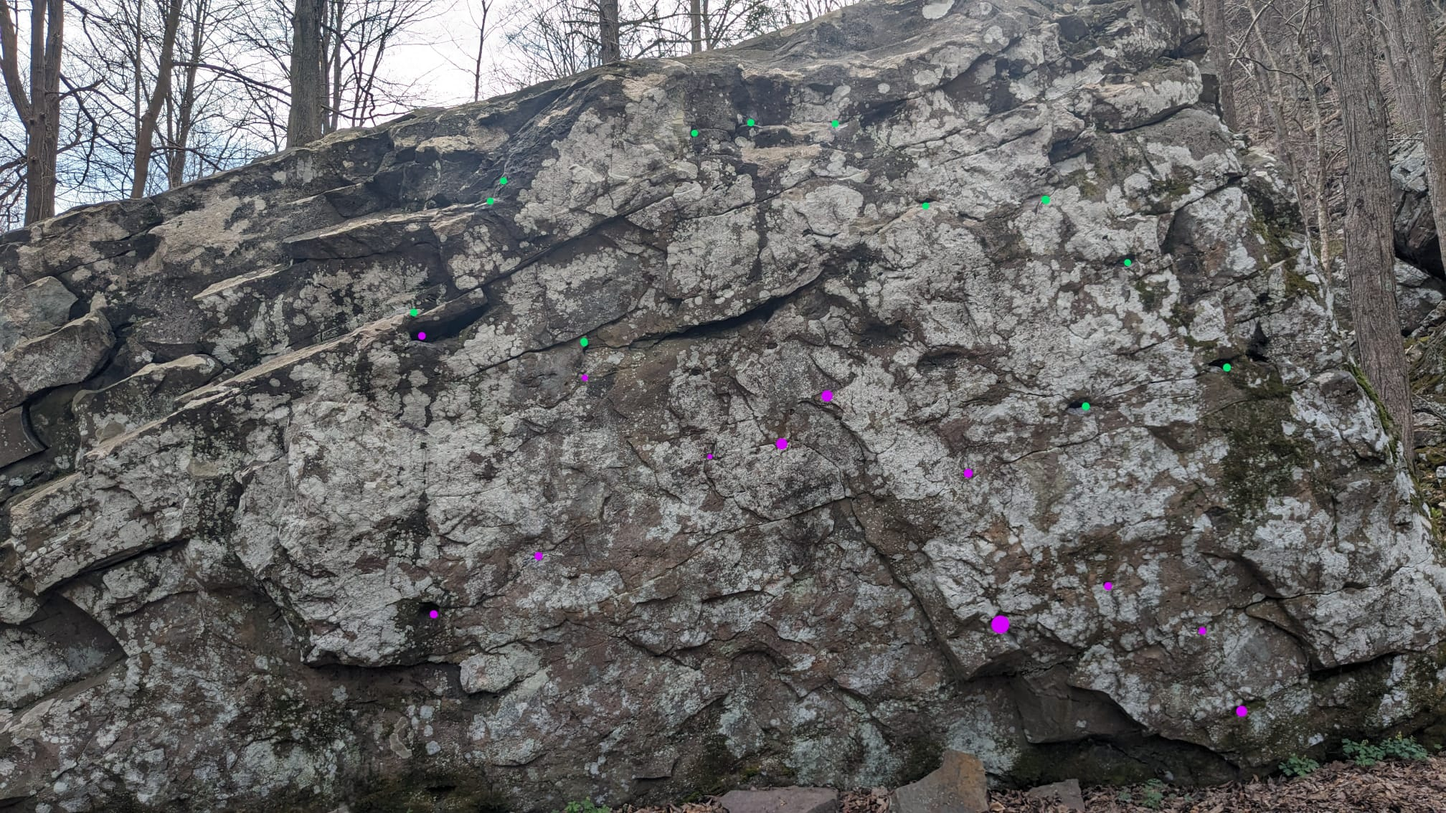
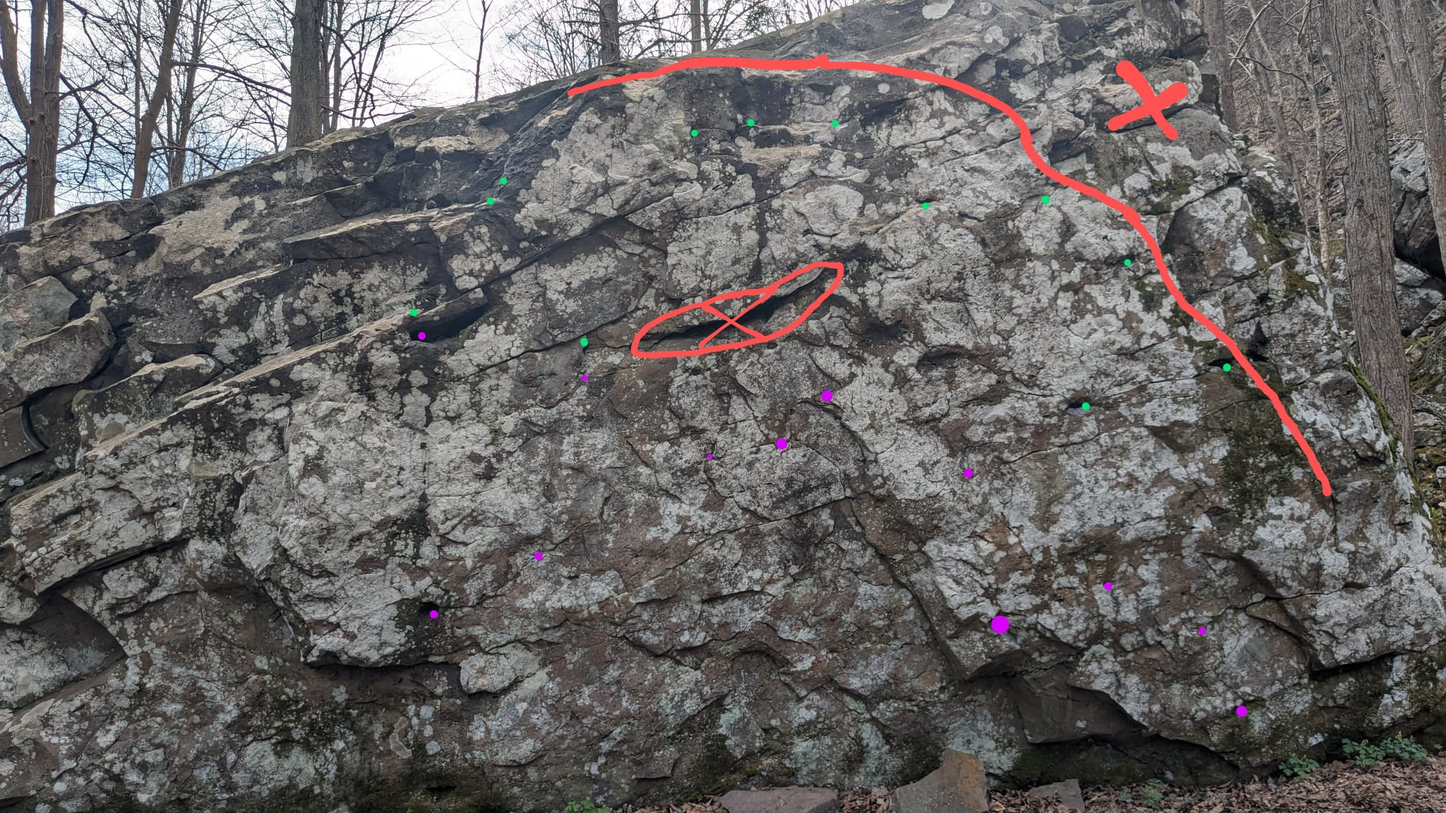
vault backup: 2024-04-02 10:42:46

diff --git a/content/en/v3/Katie.md b/content/en/v3/Katie.md
@@ -3,21 +3,22 @@ date = 2022-03-11T05:00:00Z
 description = "Jacobs Pillow"
 disable_share = true
 featured_image = "/uploads/katie-v3.jpg"
-tags = ["V3s"]
+tags = ["V3"]
 title = "Katie"
 
 
 
 +++
+Green = hand holds
 
+Purple = foot holds
+
+Red = out of bounds
 
 ![image](/uploads/katie-v3.jpg)
 ![image](/uploads/katie-top-v3.jpg)
 
-Fairly challenging the first couple times. Gets a little easier after you have succeeded once.
+An absolute classic. Crimpy crux with a straight forward top out. Start left on the Main Wall, climb up through jugs, traverse through two side pulls into the throne room (crux), sort out your feet and top out to the right. Central cavity out of bounds, as is anything on the top until you pass the throne room.
 
-Red = out of bounds
 
-Green = hand holds
 
-Purple = foot holds

diff --git a/content/en/v3/The Circle of Life.md b/content/en/v3/The Circle of Life.md
@@ -3,20 +3,21 @@ date = 2022-03-11T05:00:00Z
 description = "Jacobs Pillow"
 disable_share = true
 featured_image = "/uploads/circle-of-life-v3.jpg"
-tags = ["V3s"]
+tags = ["V3"]
 title = "The Circle of Life"
 
 
 
 +++
-
-
-![image](/uploads/circle-of-life-v3.jpg)
-
-An accent up Jacobs Ladder with a downclimb from Katie. must step onto the ground. Do not jump.
-
-Red = out of bounds
-
 Green = hand holds
 
 Purple = foot holds
+
+Red = out of bounds
+
+![image](/uploads/circle-of-life-v3.jpg)
+
+Super crimpy arrangement combining the first part of Jacob's Ladder with a reverse of the crux and start of Katie. Finish on the ground without jumping down. After first moves, Central Cavity out of bounds.
+
+
+

diff --git a/content/en/v3/Fire and Water.md b/content/en/v3/Fire and Water.md
@@ -3,19 +3,19 @@ date = 2022-03-11T05:00:00Z
 description = "Jacobs Pillow"
 disable_share = true
 featured_image = "/uploads/fire-and-water-v3.jpg"
-tags = ["V3s"]
+tags = ["V3"]
 title = "Fire and Water"
 
 
 
 +++
-
-
-![image](/uploads/fire-and-water-v3.jpg)
-
-
-Red = out of bounds
-
 Green = hand holds
 
 Purple = foot holds
+
+Red = out of bounds
+
+![image](/uploads/fire-and-water-v3.jpg)
+A classic JP route. Start far right on the main wall with two damp but obvious holds. Work your way up with a few reachy moves before joining up with Circle of Life and finishing on the ground at the far left of the main wall
+
+

diff --git a/content/en/v1/Jacobs Ladder.md b/content/en/v1/Jacobs Ladder.md
@@ -3,21 +3,20 @@ date = 2022-03-11T05:00:00Z
 description = "Jacobs Pillow"
 disable_share = true
 featured_image = "/uploads/jacobs-ladder-v2.jpg"
-tags = ["V2s"]
+tags = ["V1"]
 title = "Jacobs Ladder"
 
 
 
 +++
+Green = hand holds
 
+Purple = foot holds
+
+Red = out of bounds
 
 ![image](/uploads/jacobs-ladder-v2.jpg)
 ![image](/uploads/jacobs-ladder-top-v2.jpg)
 
+The original JP route and a great warmup climb. Start central on the Main Wall, climb up and top out directly above. A heady finish.
 
-
-Red = out of bounds
-
-Green = hand holds
-
-Purple = foot holds

diff --git a/content/en/v4/The Beast Maker.md b/content/en/v4/The Beast Maker.md
@@ -1,0 +1,22 @@
++++
+date = 2022-03-11T05:00:00Z
+description = "Jacobs Pillow"
+disable_share = true
+featured_image = "/uploads/the-beast-maker-v4.jpg"
+tags = ["V4"]
+title = "The Beast Maker"
+
+
+
++++
+Green = hand holds
+
+Purple = foot holds
+
+Red = out of bounds
+
+![image](/uploads/the-beast-maker-v4.jpg)
+
+Sit start on the far left of the Half-Wall, pull up and work yourself around the corner using small pockets. Campus a few moves before finishing out the climb by traversing through a sharp pocket and some slopey holds.
+
+

diff --git a/content/en/v6/THe Beast Maker 2.md b/content/en/v6/THe Beast Maker 2.md
@@ -1,0 +1,20 @@
++++
+date = 2022-03-11T05:00:00Z
+description = "Jacobs Pillow"
+disable_share = true
+featured_image = "/uploads/the-beast-maker-v4.jpg"
+tags = ["V6"]
+title = "The Beast Maker 2"
+
+
+
++++
+Green = hand holds
+
+Purple = foot holds
+
+Red = out of bounds
+
+![image](/uploads/the-beast-maker-v4.jpg)
+
+Beastmaker too easy? Spice things up with a little "out and back". Run this baby both ways with no rest between laps
